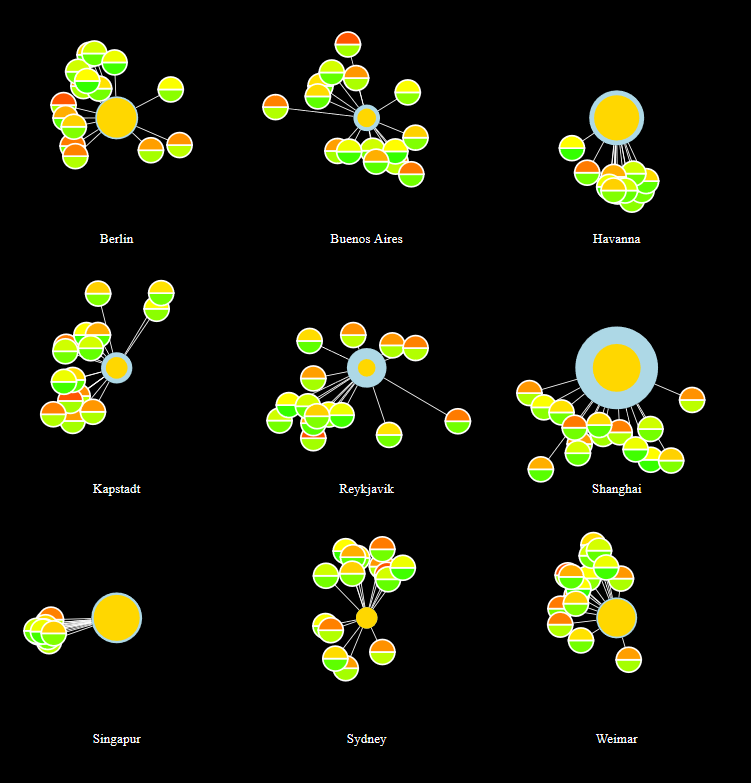
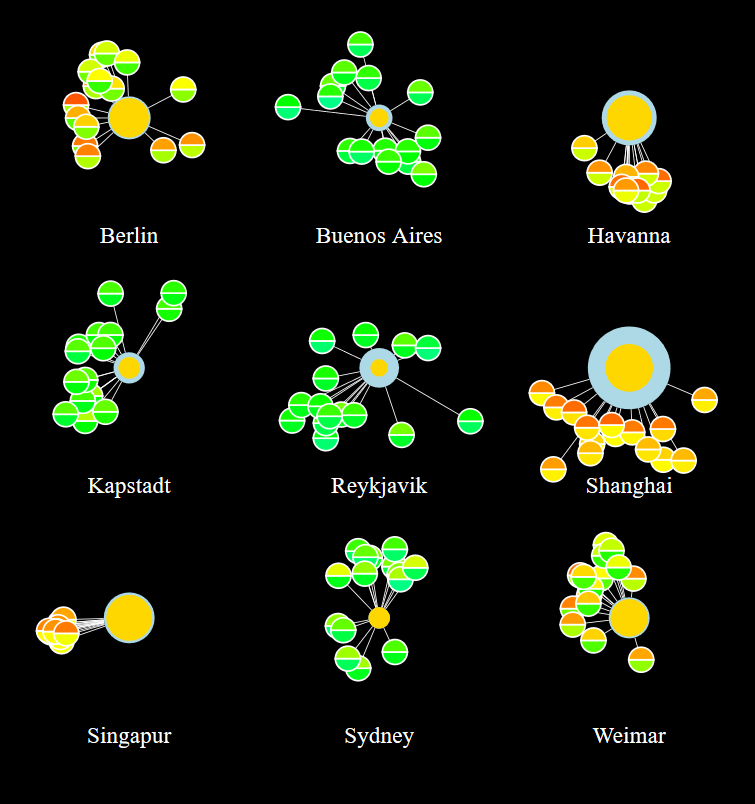
Mouse Interaction Test

diff --git a/test3.html b/test3.html
@@ -5,15 +5,25 @@
 <script src="https://d3js.org/d3.v4.min.js"></script>
 <script>
 
+// Mouse Hover Event: http://bl.ocks.org/WilliamQLiu/76ae20060e19bf42d774
+
 var svgContainer = d3.select("svg");
-var centerGroup = svgContainer.append('g')
-							  .attr('transform', 'translate(0,100)');
+
+// https://coderwall.com/p/psogia/simplest-way-to-add-zoom-pan-on-d3-js
+var centerGroup = svgContainer.append('g').attr("width", "100%")
+ .attr("height", "100%")
+ .attr('transform', 'translate(0,100)')
+ .call(d3.zoom().on("zoom", function () {
+    centerGroup.attr("transform", d3.event.transform)
+ }));
 
 var citys = ["berlin", "buenos_aires", "havanna", "kapstadt", "reykjavik",
-						"shanghai", "singapur", "sydney", "weimar"];
+						"shanghai", "singapur", "sydney", "weimar", "amundsen"];
 
 var city_names = ["Berlin", "Buenos Aires", "Havanna", "Kapstadt", "Reykjavik", 
-									"Shanghai", "Singapur", "Sydney", "Weimar"];
+									"Shanghai", "Singapur", "Sydney", "Weimar", "Amundsen"];
+
+
 
 for (let index = 0, offset_x = 200, offset_y = 200; index < citys.length; index++, offset_x+=300) {
 	var lines, cityGroup;
@@ -50,18 +60,21 @@ for (let index = 0, offset_x = 200, offset_y = 200; index < citys.length; index+
 		var center_clr = cityGroup.append('circle')
 								.attr('r', overall_mean_temp)
 								.style('fill', '#ffd700');
+		
 		var center_text = cityGroup.append('text')
 								.attr('text-anchor', 'middle')
 								.attr('alignment-baseline', 'middle')
 								.attr('fill', 'white')
 								.attr('transform', 'translate(0, 150)')
+								.style("font-size", "28px")
 								.text(function() {
 								return city_names[index];
+
 		});
 	})	
 }
 
-  function generateLinesTempcircs(d){
+function generateLinesTempcircs(d){
 	var today = d.day
 	var startDist = overall_mean_temp + overall_mean_preci*3;
 	var endDist = startDist + d.windSpeed*3;
@@ -103,13 +116,16 @@ function calcMinMaxTemp(today, d, cityGroup, endDist) {
                         .startAngle(-0.5*Math.PI)
                         .endAngle(0.5*Math.PI)
                         .innerRadius(0)
-                        .outerRadius(15);
+						.outerRadius(15);
+						
 		var one_tempr_clr = cityGroup.append('g')
 						.attr('transform','rotate('+ d.windDir +')translate('+ endDist +')rotate('+ -d.windDir +')');
+
 		one_tempr_clr.append("path").attr("d", low_temp_arc)
              .attr('fill', mapColor(min_max_temp[0]))
              .style('stroke','white')
-             .style('stroke-width','2px');
+			 .style('stroke-width','2px');
+			 
   		one_tempr_clr.append("path").attr("d", high_temp_arc)
              .attr('fill', mapColor(min_max_temp[1]))
              .style('stroke','white')
@@ -136,6 +152,15 @@ function calculate_mean_preci(d){
 	return preciMean;
 }
 
+/// Very experimental shit!
+// Create Event Handlers for mouse
+function handleMouseOver(d, i) {  // Add interactivity
+	console.log("hallo")
+}
+
+function handleMouseOut(d, i) {
+	console.log("hallo")
+}
 
 </script>
 </body>
